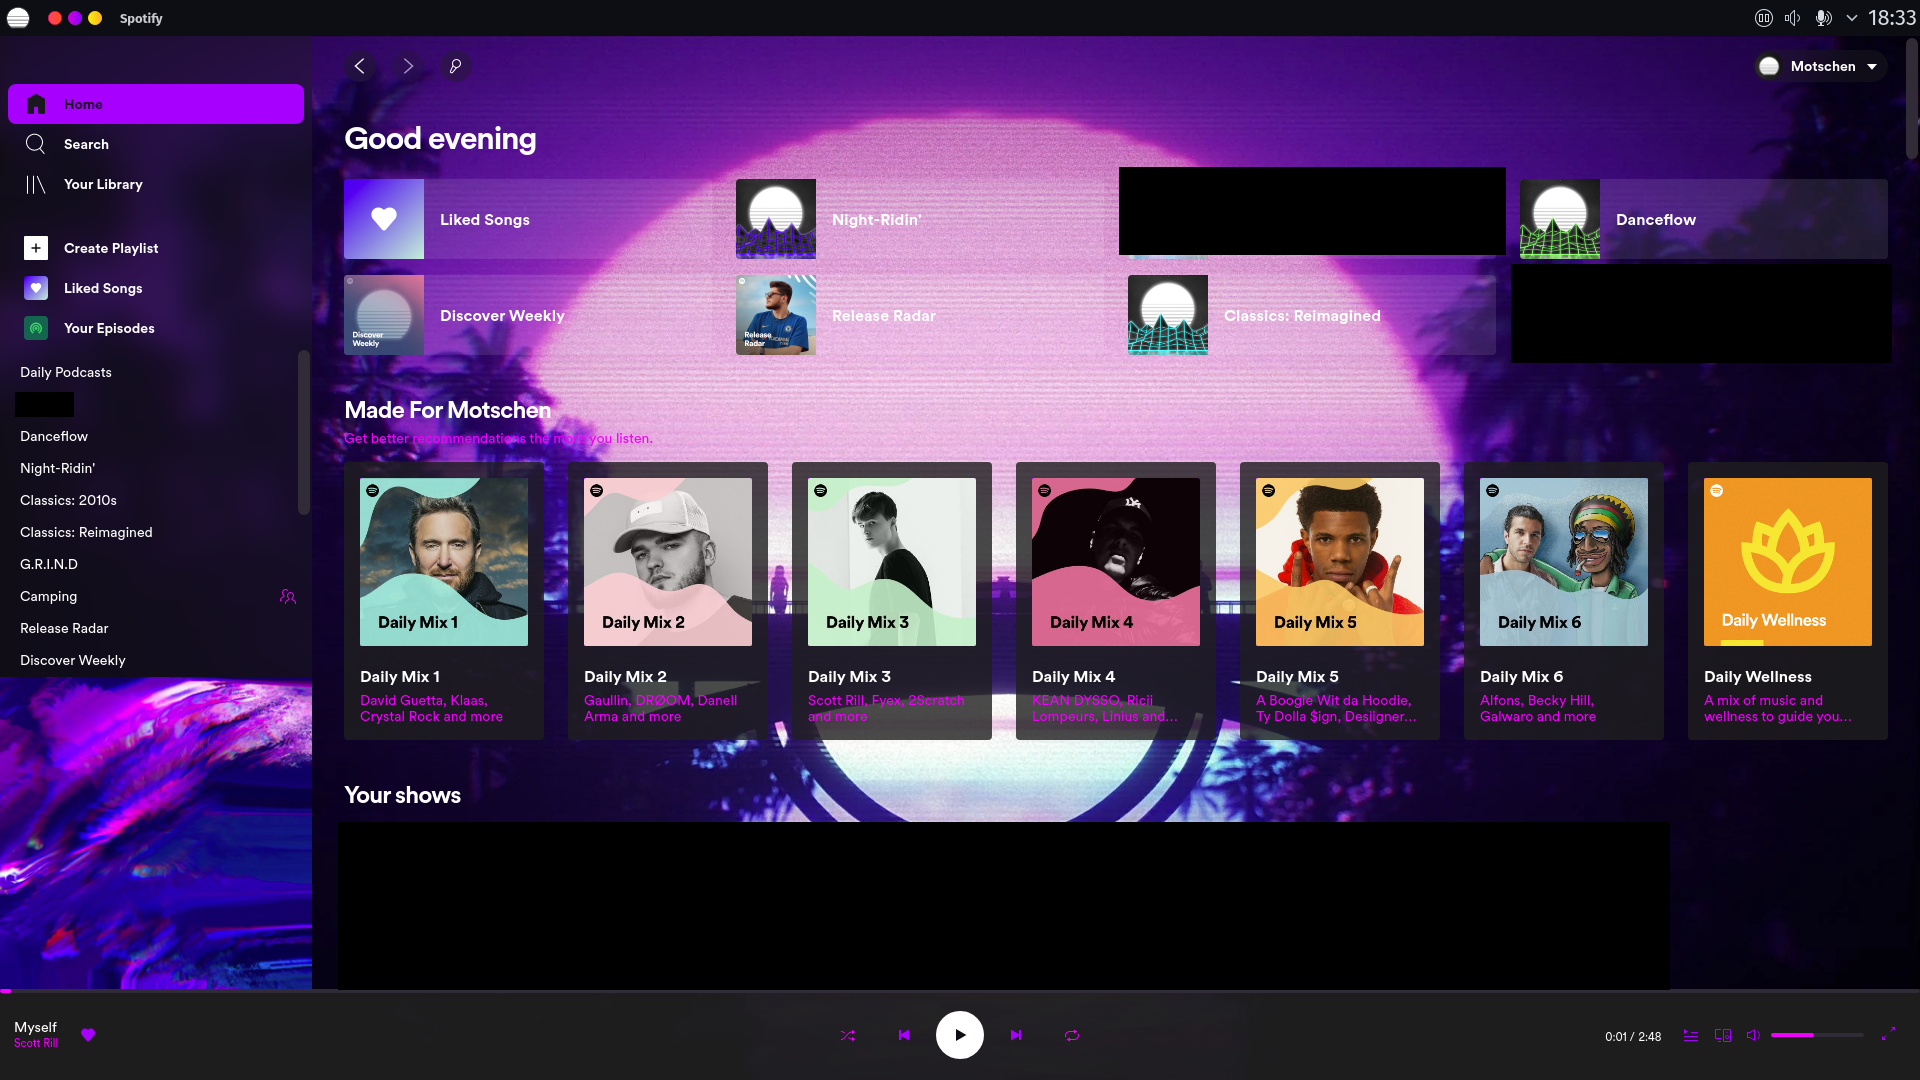
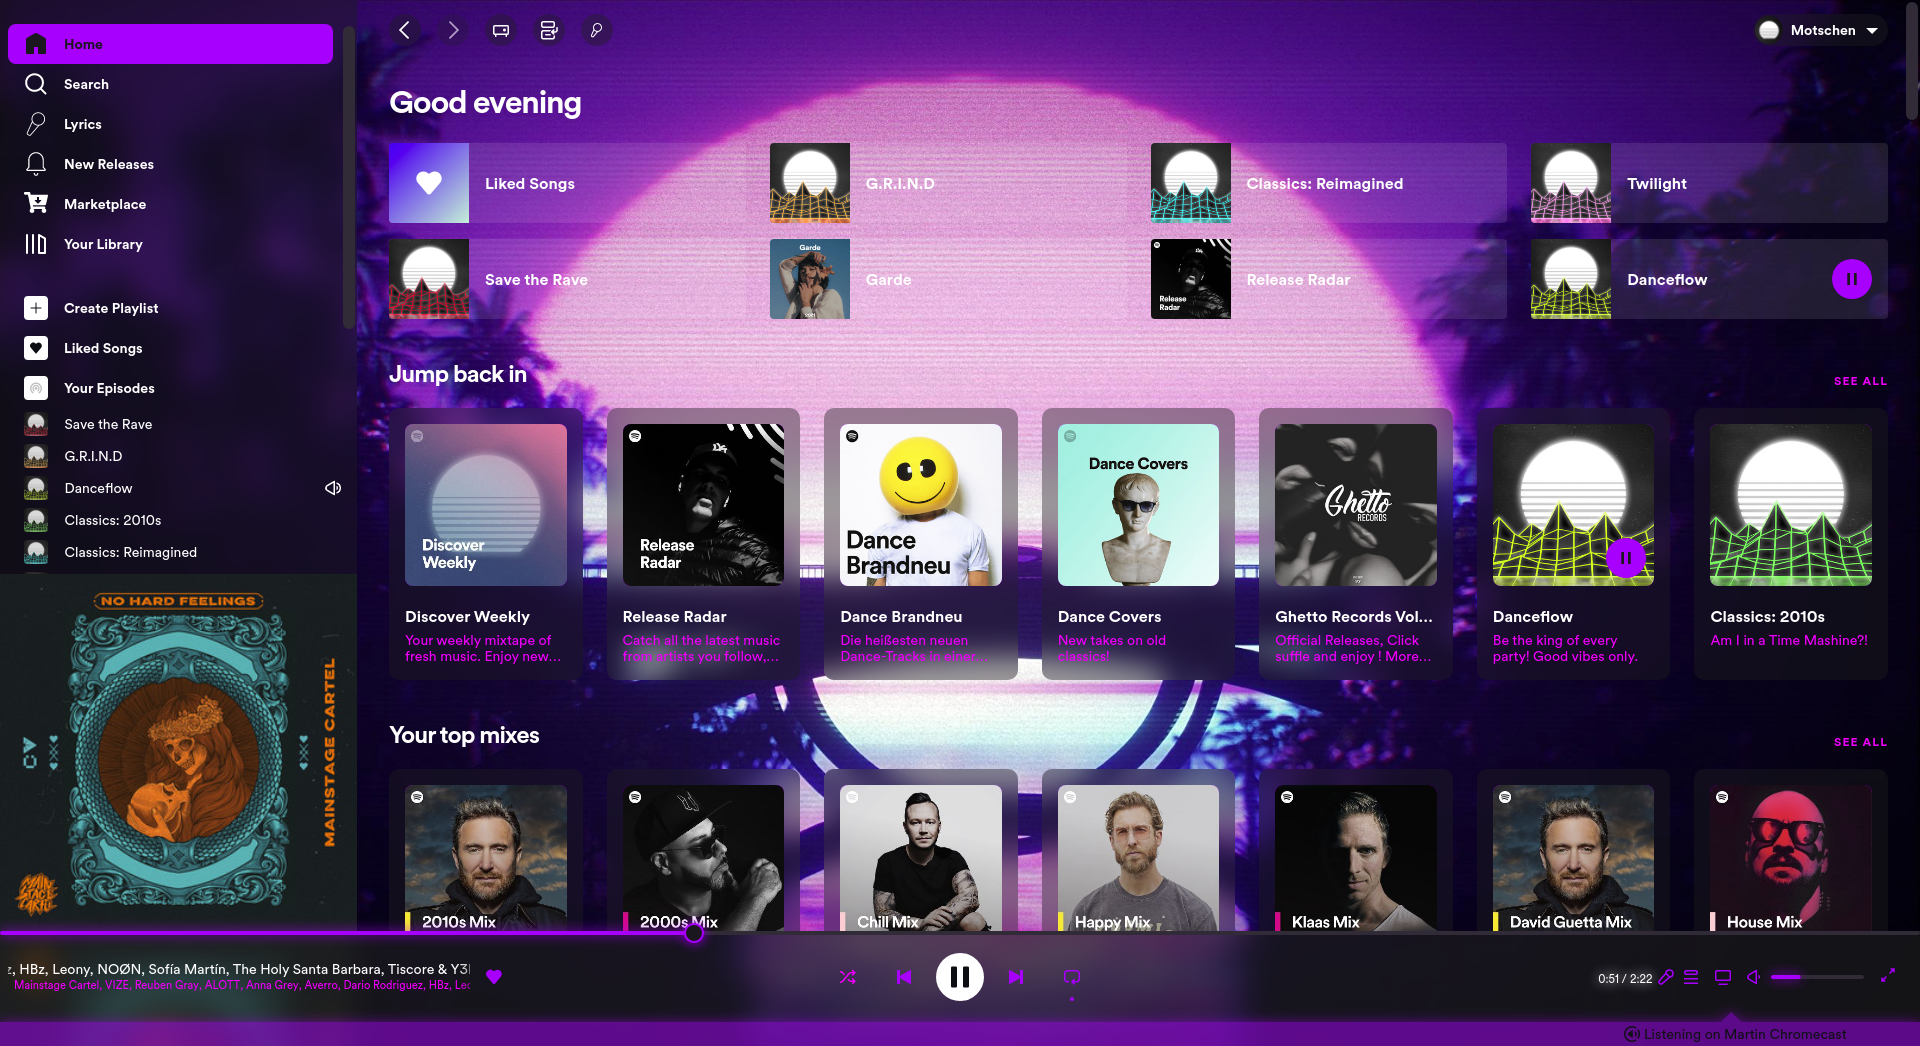
Updated images and readme

diff --git a/README.md b/README.md
@@ -1,7 +1,7 @@
 <h1 align="center">Retroblur</h1>
-<p align="center">Spicetify theme with lots of blur and retro elements.
-Based on https://github.com/schnensch0/ziro
-Copyright © 2021 Motschen - MIT License
+<p align="center">Spicetify theme with lots of blur and retro elements.<br/>
+Based on https://github.com/schnensch0/ziro <br/>
+Copyright © 2021 Motschen - MIT License<br/>
 
 ![Home](preview/home.png)
 

diff --git a/COLORS.md b/COLORS.md
@@ -1,0 +1,13 @@
+<h1 align="center">Retroblur Color Styles</h1>
+<p align="center">
+Purple
+![Purple](preview/home.png)
+Red
+![Red](preview/red.png)
+Orange
+![Orange](preview/orange.png)
+Green
+![Green](preview/green.png)
+Blue
+![Blue](preview/blue.png)
+ </p>
